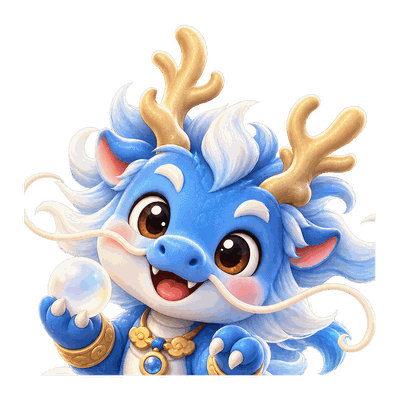
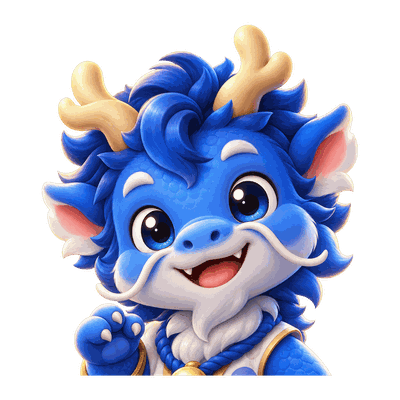
청룡 다시 뽑아 교체 — 흰 원반에 묻히던 것이 사라졌다(흰색 근접 픽셀 14%→4%)

diff --git a/art-src/2026-08-11_set3-korean-folklore/NOTES.md b/art-src/2026-08-11_set3-korean-folklore/NOTES.md
@@ -91,3 +91,14 @@ python3 scripts/process-char-art.py \
 '32px 원 안을 덮는 비율'을 재봤더니 청사초롱 50%·복주머니 43%로 "성글다"가 나왔는데,
 **그 둘이 실제로는 제일 잘 읽힌다.** 여백을 두고 가운데 모인 그림이 오히려 잘 읽히기 때문이다.
 → 작은 크기 판정은 **눈으로 볼 것.** 덮는 비율은 쓸모없는 지표다.
+
+## 청룡 2차 (2026-08-11 16:17) — `yong_B.png` ✅ 교체
+
+1차의 문제 둘을 다 잡았다.
+- **색**: 연한 하늘색 → 진한 코발트. 흰색에 가까운 픽셀 **14% → 4%**(청사초롱과 같은 수준).
+  평균 밝기도 169 → 124로 내려와 흰 원반에서 확실히 떨어진다.
+- **실루엣**: 가는 사슴뿔·긴 수염·구름 소용돌이가 사라지고 **굵은 뿔 + 짧은 수염 + 큰 머리**로 왔다.
+  32px에서 얼굴과 뿔이 읽힌다(1차는 파란 얼룩이었다).
+
+처리: `--bg none --bust 0.85 --tight` (원본이 이미 상반신이라 조금만 잘랐다) · 큰 자리용은 `--bg none`.
+`yong_A.png`는 비교용으로 남긴다.
